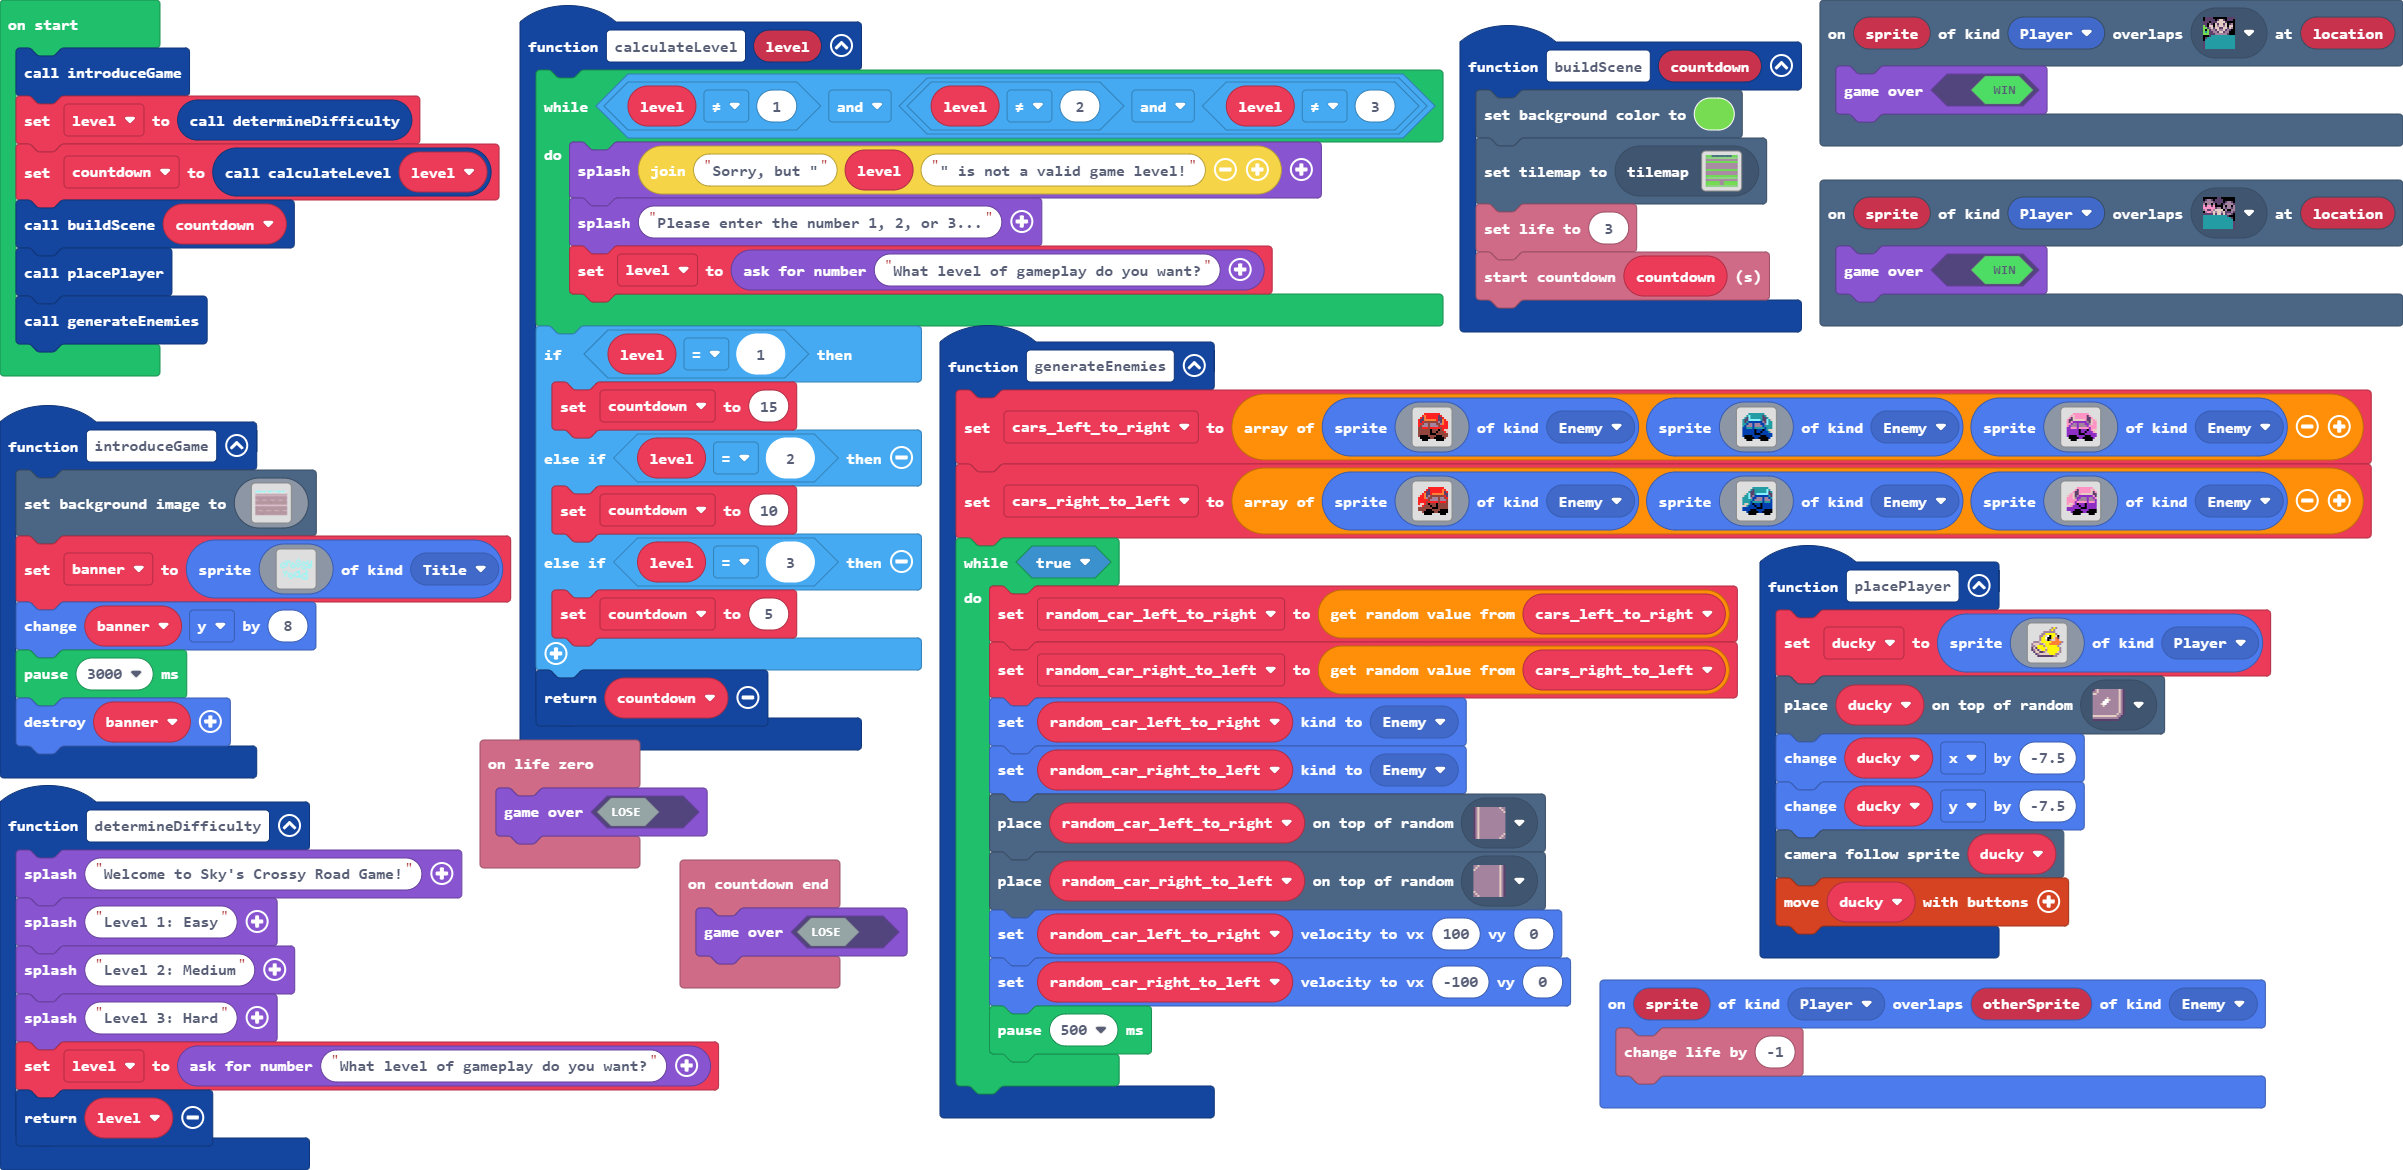
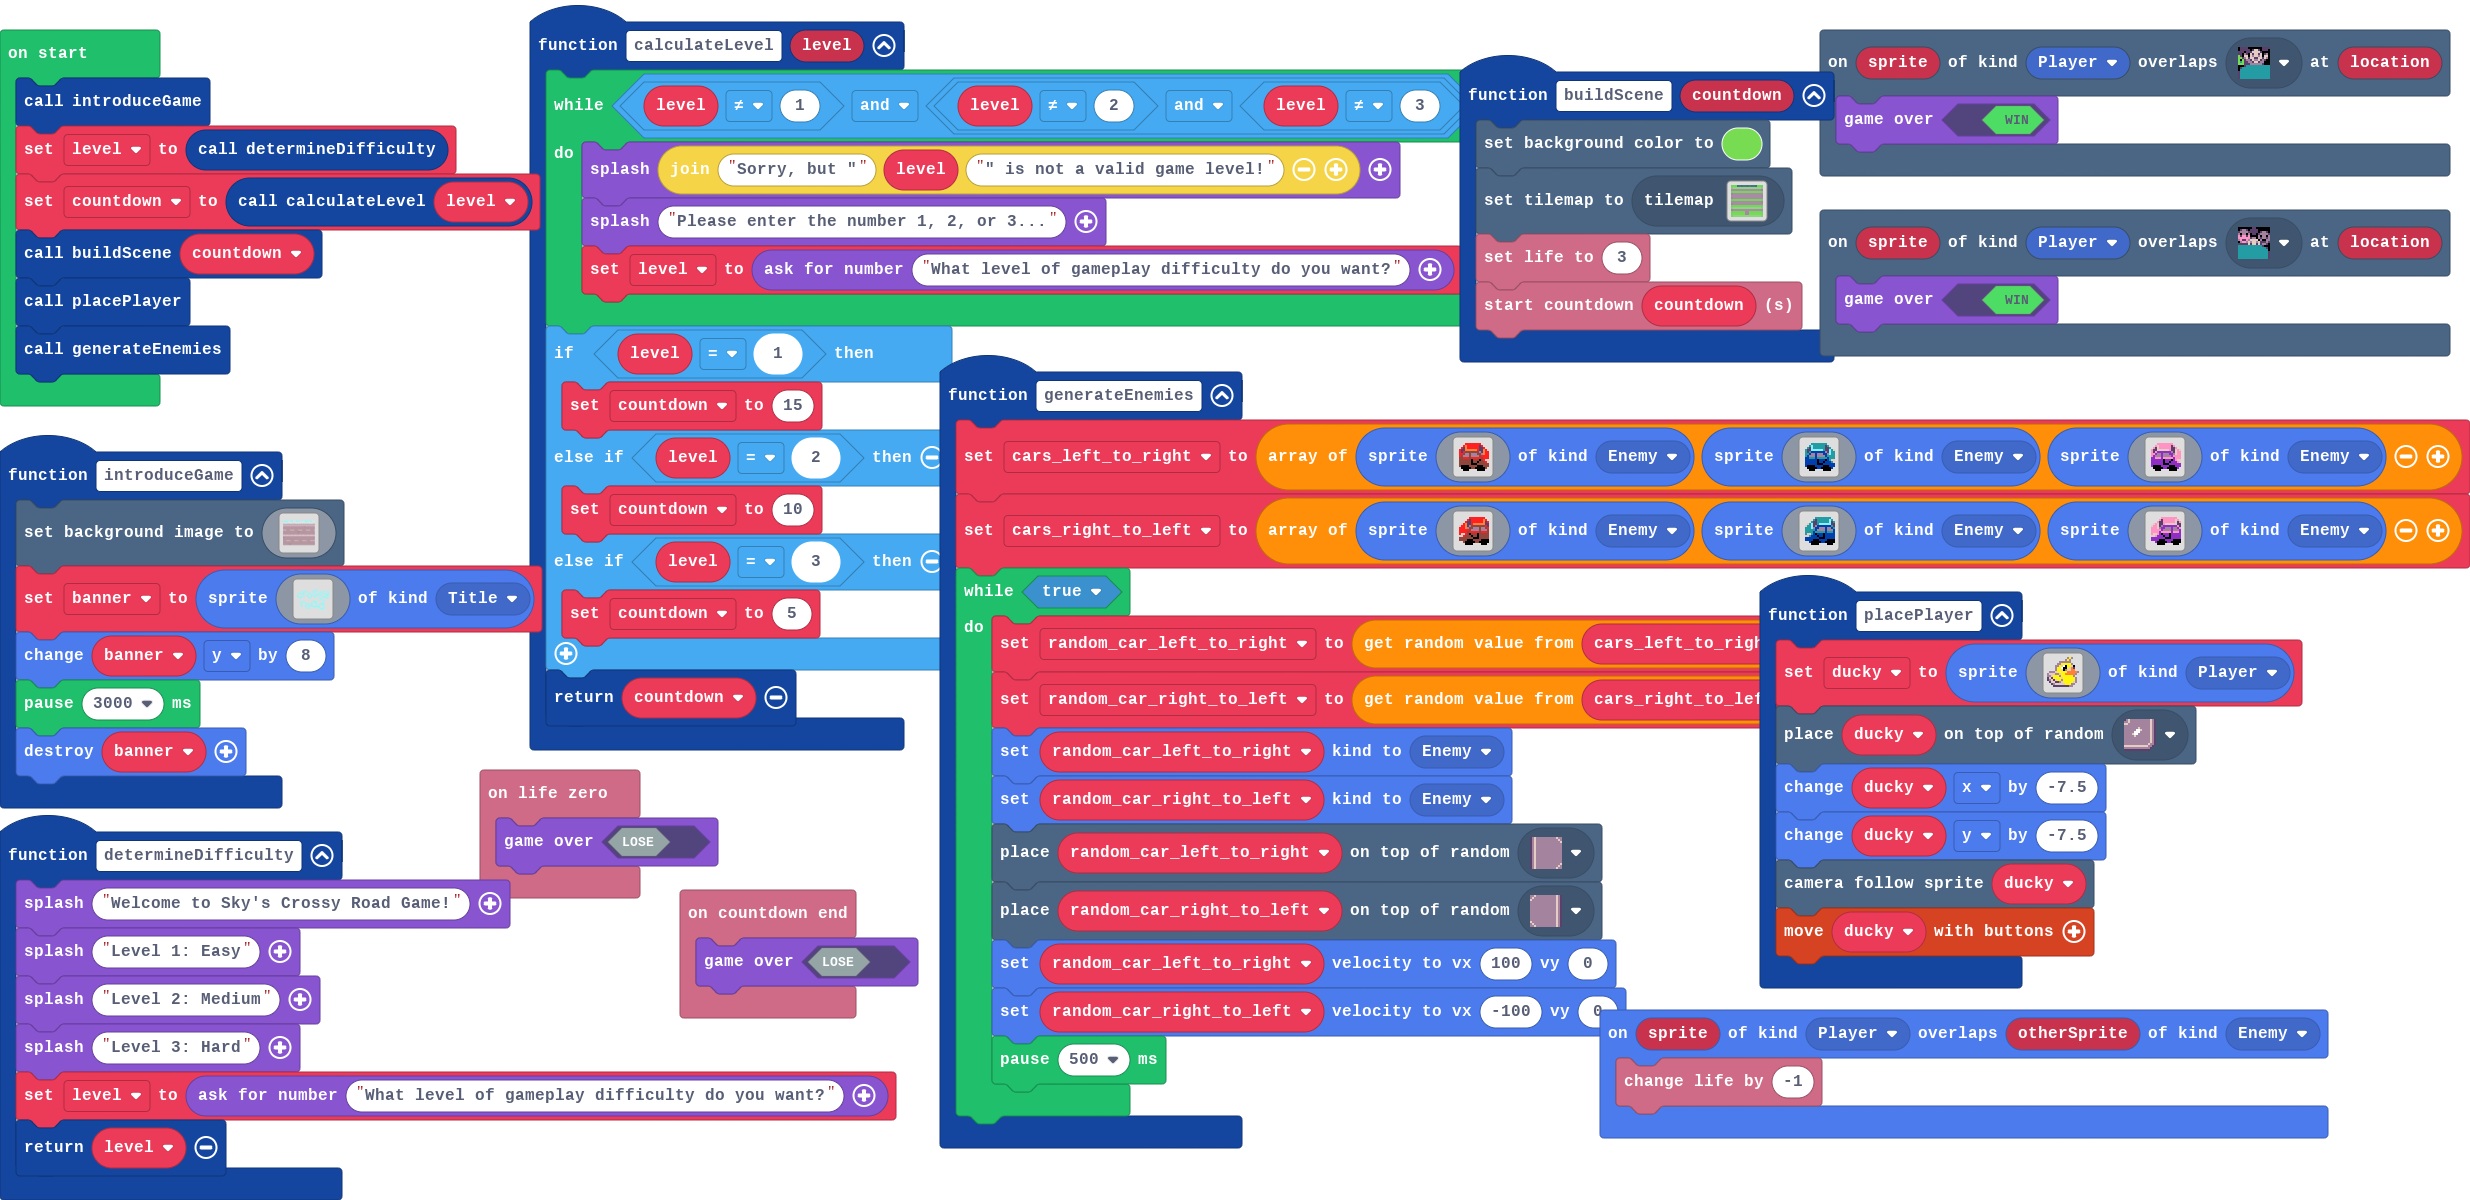
Update main.blocks, main.ts

diff --git a/main.ts b/main.ts
@@ -27,7 +27,7 @@ function determineDifficulty () {
     game.splash("Level 1: Easy")
     game.splash("Level 2: Medium")
     game.splash("Level 3: Hard")
-    level = game.askForNumber("What level of gameplay do you want?")
+    level = game.askForNumber("What level of gameplay difficulty do you want?")
     return level
 }
 info.onCountdownEnd(function () {
@@ -46,7 +46,7 @@ function calculateLevel (level: number) {
     while (level != 1 && (level != 2 && level != 3)) {
         game.splash("Sorry, but \"" + level + "\" is not a valid game level!")
         game.splash("Please enter the number 1, 2, or 3...")
-        level = game.askForNumber("What level of gameplay do you want?")
+        level = game.askForNumber("What level of gameplay difficulty do you want?")
     }
     if (level == 1) {
         countdown = 15
